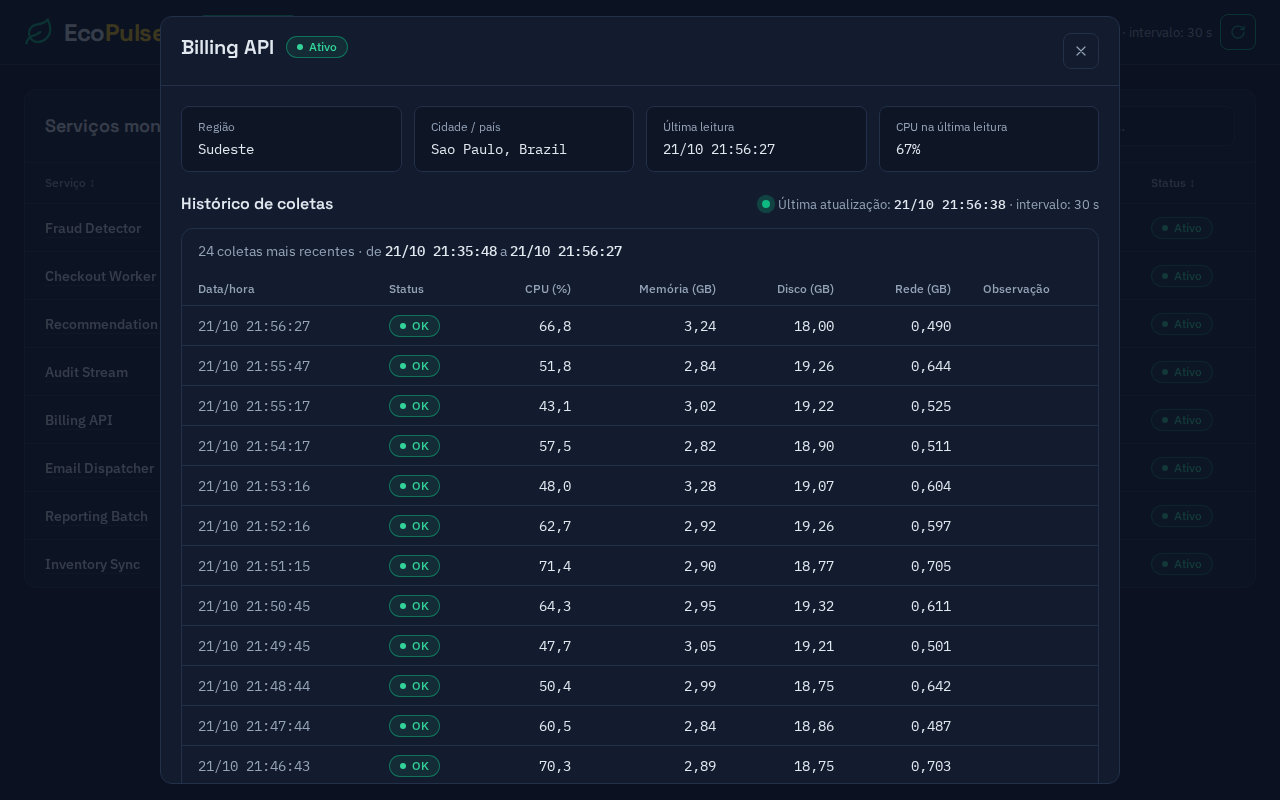
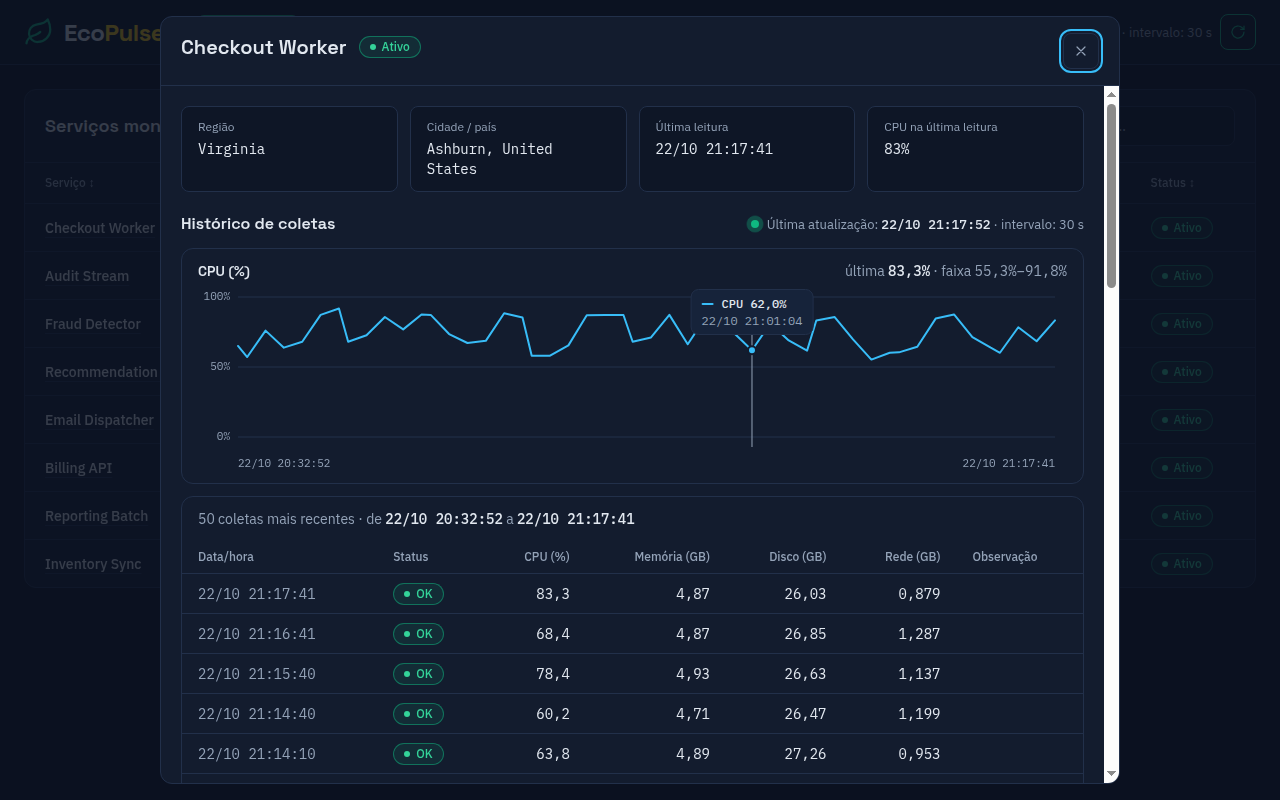
docs(frontend): documenta o gráfico da CPU e refaz o print (#132) [RF10]

diff --git a/frontend/README.md b/frontend/README.md
@@ -50,6 +50,7 @@ Lidas do `.env` da **raiz** do repositório (modelo em `.env.example`; `envDir: 
 
 - Clicar numa linha da tabela abre `ServiceDetailsDialog`, um `<dialog>` nativo aberto com `showModal()`. Pelo teclado, o nome do serviço é um botão. O `<dialog>` já prende o foco na janela, fecha com Esc e escurece o fundo; ela fecha também pelo botão × ou por um clique fora, e o foco volta para a tabela.
 - A janela mostra os dados da linha (status, região, cidade/país, última leitura, CPU) e as 50 coletas mais recentes de `GET /collections?service_id=<id>&limit=50`, da mais recente para a mais antiga, com o período exibido na legenda.
+- Acima da tabela, `CpuHistoryChart` desenha a CPU (%) dessas coletas numa linha, da mais antiga para a mais recente, com eixo de 0 a 100% e os horários de início e fim. É SVG puro, sem biblioteca, e o componente recebe as coletas por props, sem HTTP. A linha é interrompida nas coletas com erro (×) ou sem métricas (anel), marcadas abaixo do eixo e contadas na legenda. Passar o mouse, tocar ou usar as setas, Home e End com o gráfico em foco mostra o valor, o horário e o erro de cada coleta. Com menos de 2 coletas com CPU, aparece um texto no lugar do gráfico. A lógica dos trechos fica em `src/utils/cpu-chart.ts`.
 - O histórico usa o mesmo `usePolling` e o mesmo intervalo do dashboard, com selo "Última atualização" próprio. Se uma busca falhar, as coletas anteriores continuam na tela com "Desatualizado desde…" e **Tentar novamente**. Um serviço sem coletas mostra um aviso no lugar da tabela.
 - A janela só fica montada enquanto está aberta: fechar cancela o polling do histórico.
 
@@ -134,3 +135,6 @@ npm run mock        # backend falso em http://localhost:3000 (desenvolvimento)
 19. Fechar a janela com Esc, com o botão × e com um clique fora → as três formas fecham. Com Tab até o nome de um serviço e Enter → a janela abre; ao fechar, o foco volta para o nome.
 20. Com o mock no ar e `VITE_REFRESH_INTERVAL_MS=5000`, abrir um serviço → o terminal do mock registra `GET /collections` a cada 5 s, e o selo da janela e a CPU das coletas mudam sem recarregar. Parar o mock → a janela mostra o erro e "Desatualizado desde …" e mantém as coletas.
 21. Estreitar a janela do navegador para 375 px com os detalhes abertos → a página não ganha rolagem lateral; só a tabela do histórico rola na horizontal.
+22. Na janela de **Fraud Detector**, acima da tabela → gráfico **CPU (%)** com eixo de 0 a 100% e os horários da primeira e da última coleta da legenda; "última" é a CPU da primeira linha da tabela. Passar o mouse sobre o gráfico → linha vertical e caixa com a CPU e o horário da coleta mais próxima, iguais aos da tabela. Com Tab até o gráfico, as setas, Home e End percorrem as coletas.
+23. Na janela de **Email Dispatcher** → a linha para onde começam os erros, as coletas com erro aparecem como × abaixo do eixo e a legenda diz "A linha é interrompida nas coletas sem CPU: N com erro". Com o cursor sobre um ×, a caixa mostra "Erro na coleta" e a observação da coleta.
+24. Com 375 px de largura → o gráfico ocupa a largura da janela, sem rolagem lateral, e os rótulos continuam legíveis.

diff --git a/README.md b/README.md
@@ -60,11 +60,11 @@ O desenvolvimento acontece na branch `develop`; cada funcionalidade entra nesta 
 
 - **RF10 — API dos serviços e histórico de coletas (#115, #116, #119):** `GET /api/services` devolve os serviços monitorados com a última leitura, e `GET /api/collections?service_id=&from=&to=&limit=` devolve o histórico de coletas (com `limit` de 1 a 500), com CORS liberado para o dashboard. Contrato completo em [docs/api.md](docs/api.md).
 
-- **RF09, RF10 — Detalhes e histórico do serviço (#135):** clicar num serviço da tabela abre uma janela com status, localização, última leitura, CPU e as 50 coletas mais recentes do serviço (`GET /api/collections`), com o período exibido na legenda. O histórico se atualiza no mesmo intervalo do dashboard; se uma busca falha, as coletas continuam na tela com "Desatualizado desde …". Como verificar em [frontend/README.md](frontend/README.md).
+- **RF09, RF10 — Detalhes e histórico do serviço (#135):** clicar num serviço da tabela abre uma janela com status, localização, última leitura, CPU e as 50 coletas mais recentes do serviço (`GET /api/collections`), com o período exibido na legenda. Acima da tabela, um gráfico de linha mostra a evolução da CPU nessas coletas, interrompido nas coletas com erro ou sem métricas (#132). O histórico se atualiza no mesmo intervalo do dashboard; se uma busca falha, as coletas continuam na tela com "Desatualizado desde …". Como verificar em [frontend/README.md](frontend/README.md).
 
-  ![Janela de detalhes de um serviço com o histórico de coletas](docs/img/sprint-2-detalhe-servico.png)
+  ![Janela de detalhes de um serviço com o gráfico da CPU e o histórico de coletas](docs/img/sprint-2-detalhe-servico.png)
 
-  _Janela da Billing API em 21/10/2026, com o backend real (`docker compose`)._
+  _Janela do Checkout Worker em 22/10/2026, com o backend real (`docker compose`) e o cursor sobre uma coleta do gráfico._
 
 - **RNF05, DW07 — Execução com Docker (#91, #113, #81):** backend, frontend (nginx) e PostgreSQL sobem juntos por `docker compose up --build`, com volume persistente para o banco e todas as variáveis documentadas em [.env.example](.env.example) (#82). Passo a passo no [README](#8-como-executar).
 
